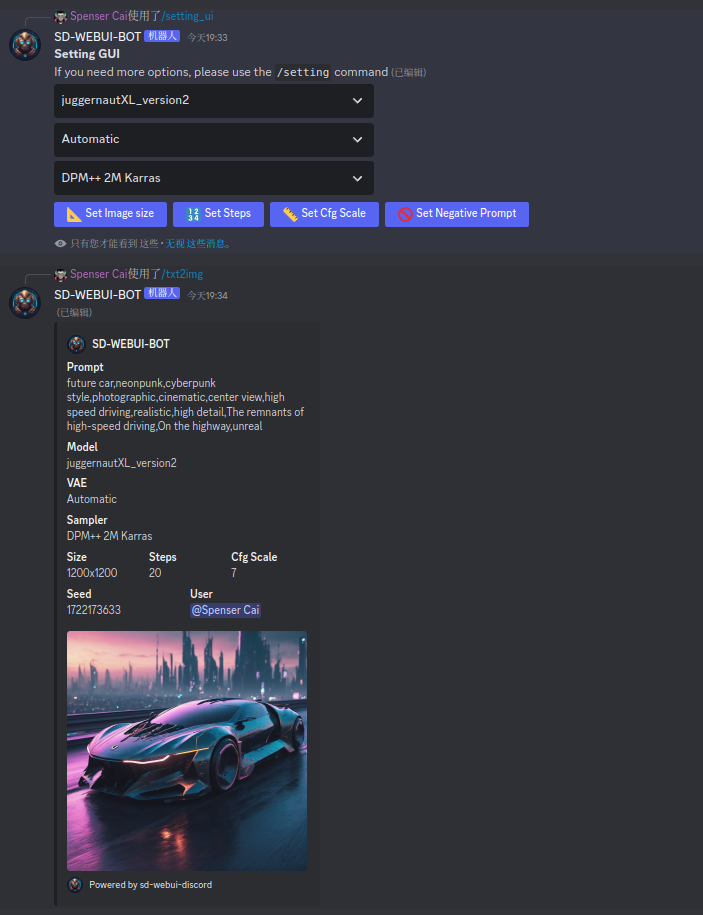
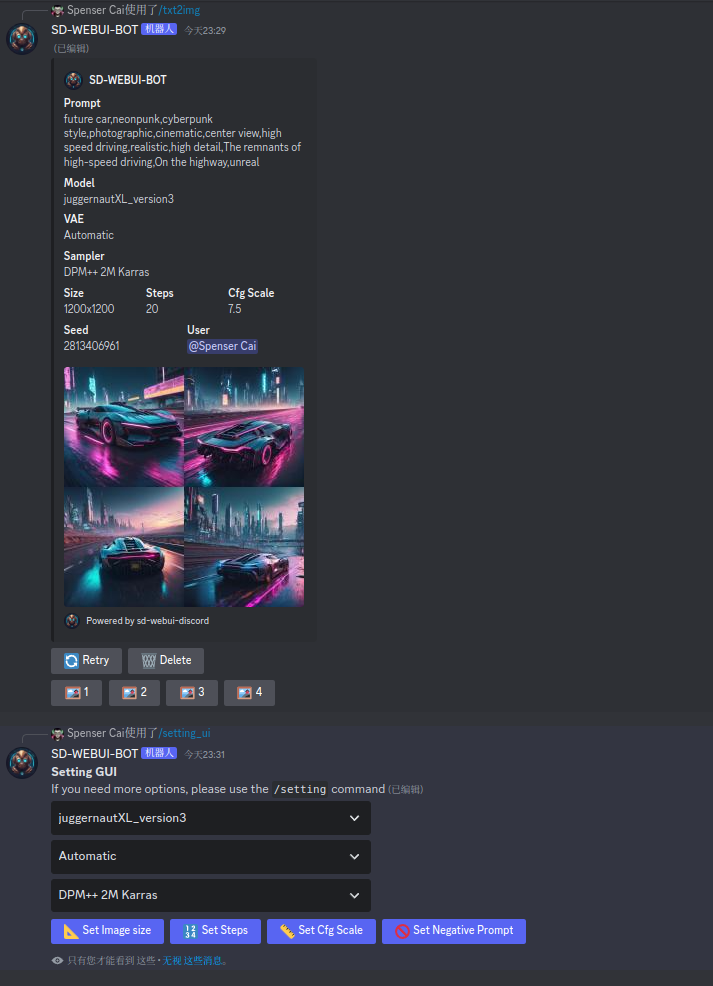
update readme

Changed region(s): [[0.0, 0.0, 0.7767, 0.9792]]

diff --git a/README.md b/README.md
@@ -3,7 +3,7 @@
  * @Date: 2023-08-17 18:23:21
  * @version: 
  * @LastEditors: SpenserCai
- * @LastEditTime: 2023-09-22 16:49:26
+ * @LastEditTime: 2023-09-24 23:35:44
  * @Description: file content
 -->
 <div align="center">
@@ -44,6 +44,9 @@ At the same time, there is also the [sd-webui-discord-ex](https://github.com/Spe
 
 ## News
 
+### **2023-09-24: Support multi image generate in `txt2img` command**
+### **2023-09-23:**
+ - Support `Retry` and `Delete` in `txt2img` command
 ### **2023-09-22:** 
  - Support `setting_ui` command
  - Better `txt2img` response ui,thanks for [venetanji](https://github.com/venetanji) support that! [#5](https://github.com/SpenserCai/sd-webui-discord/pull/5)
